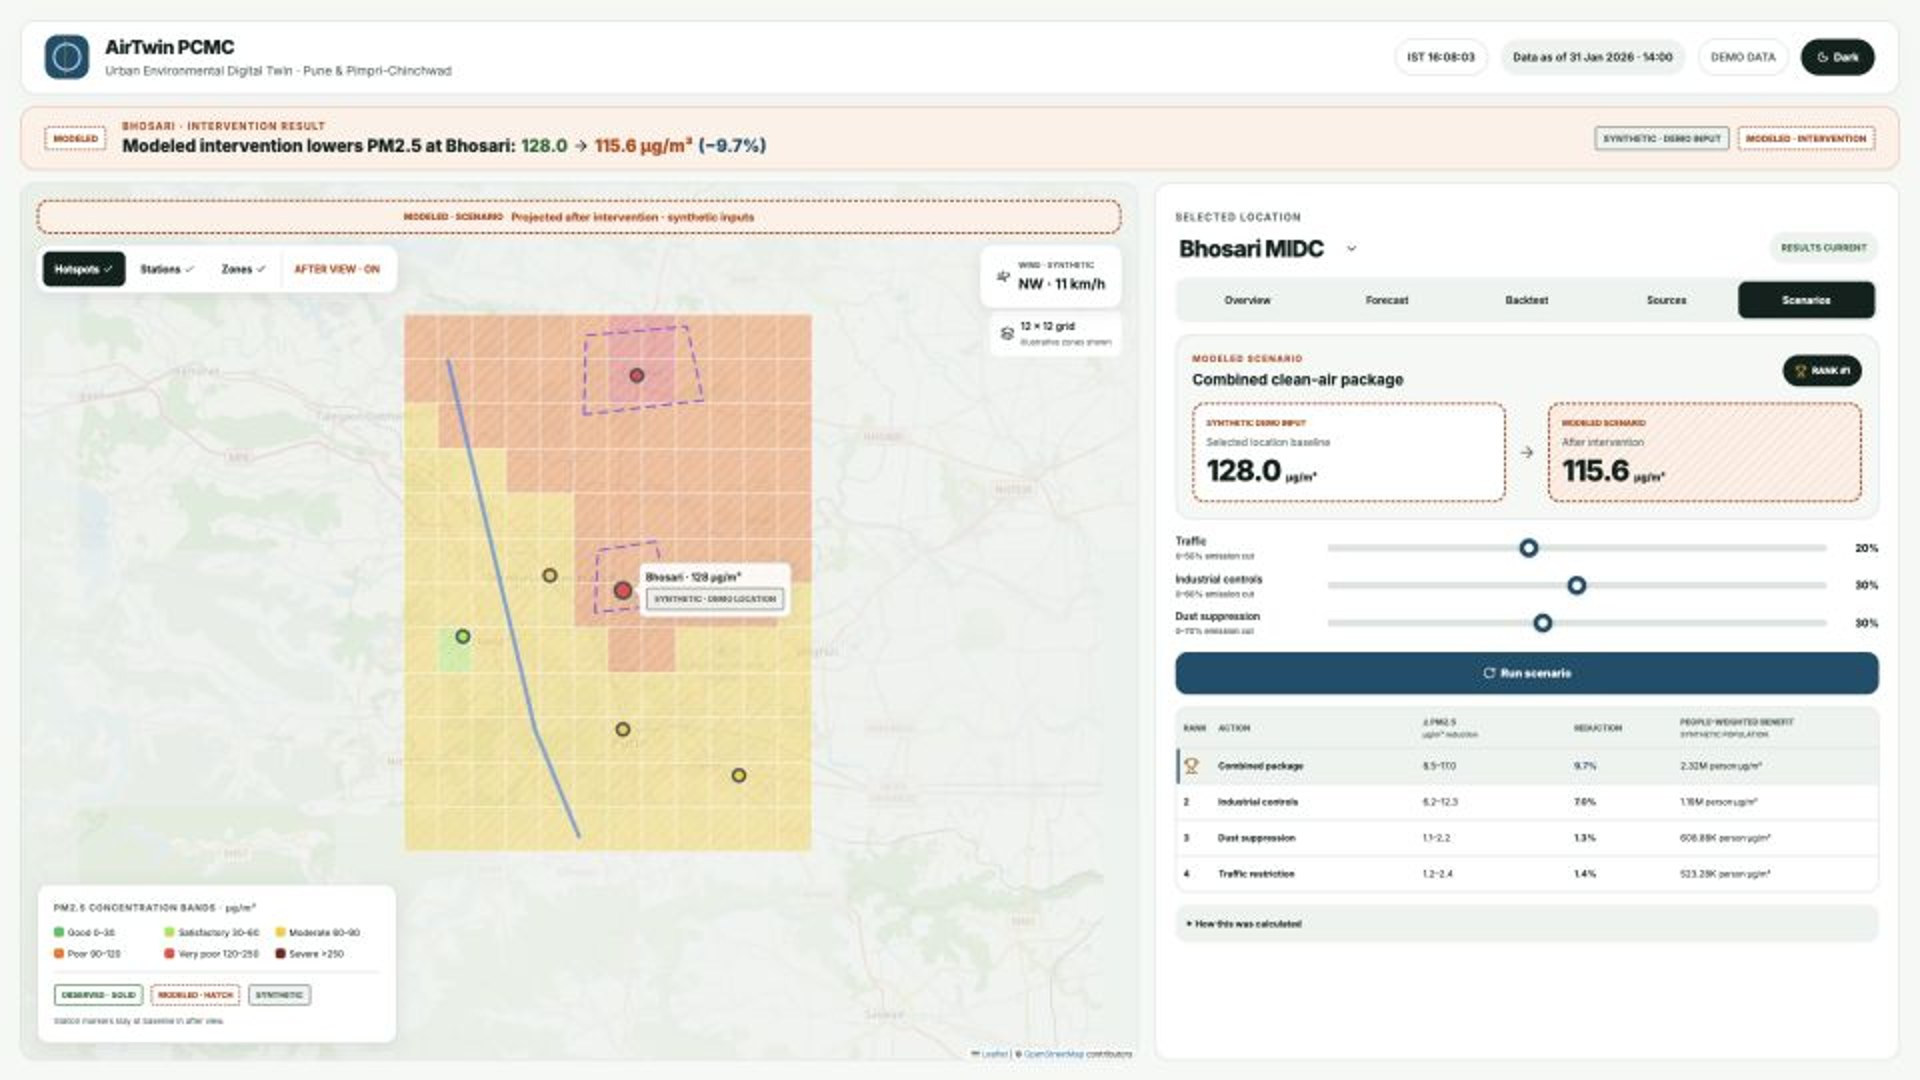
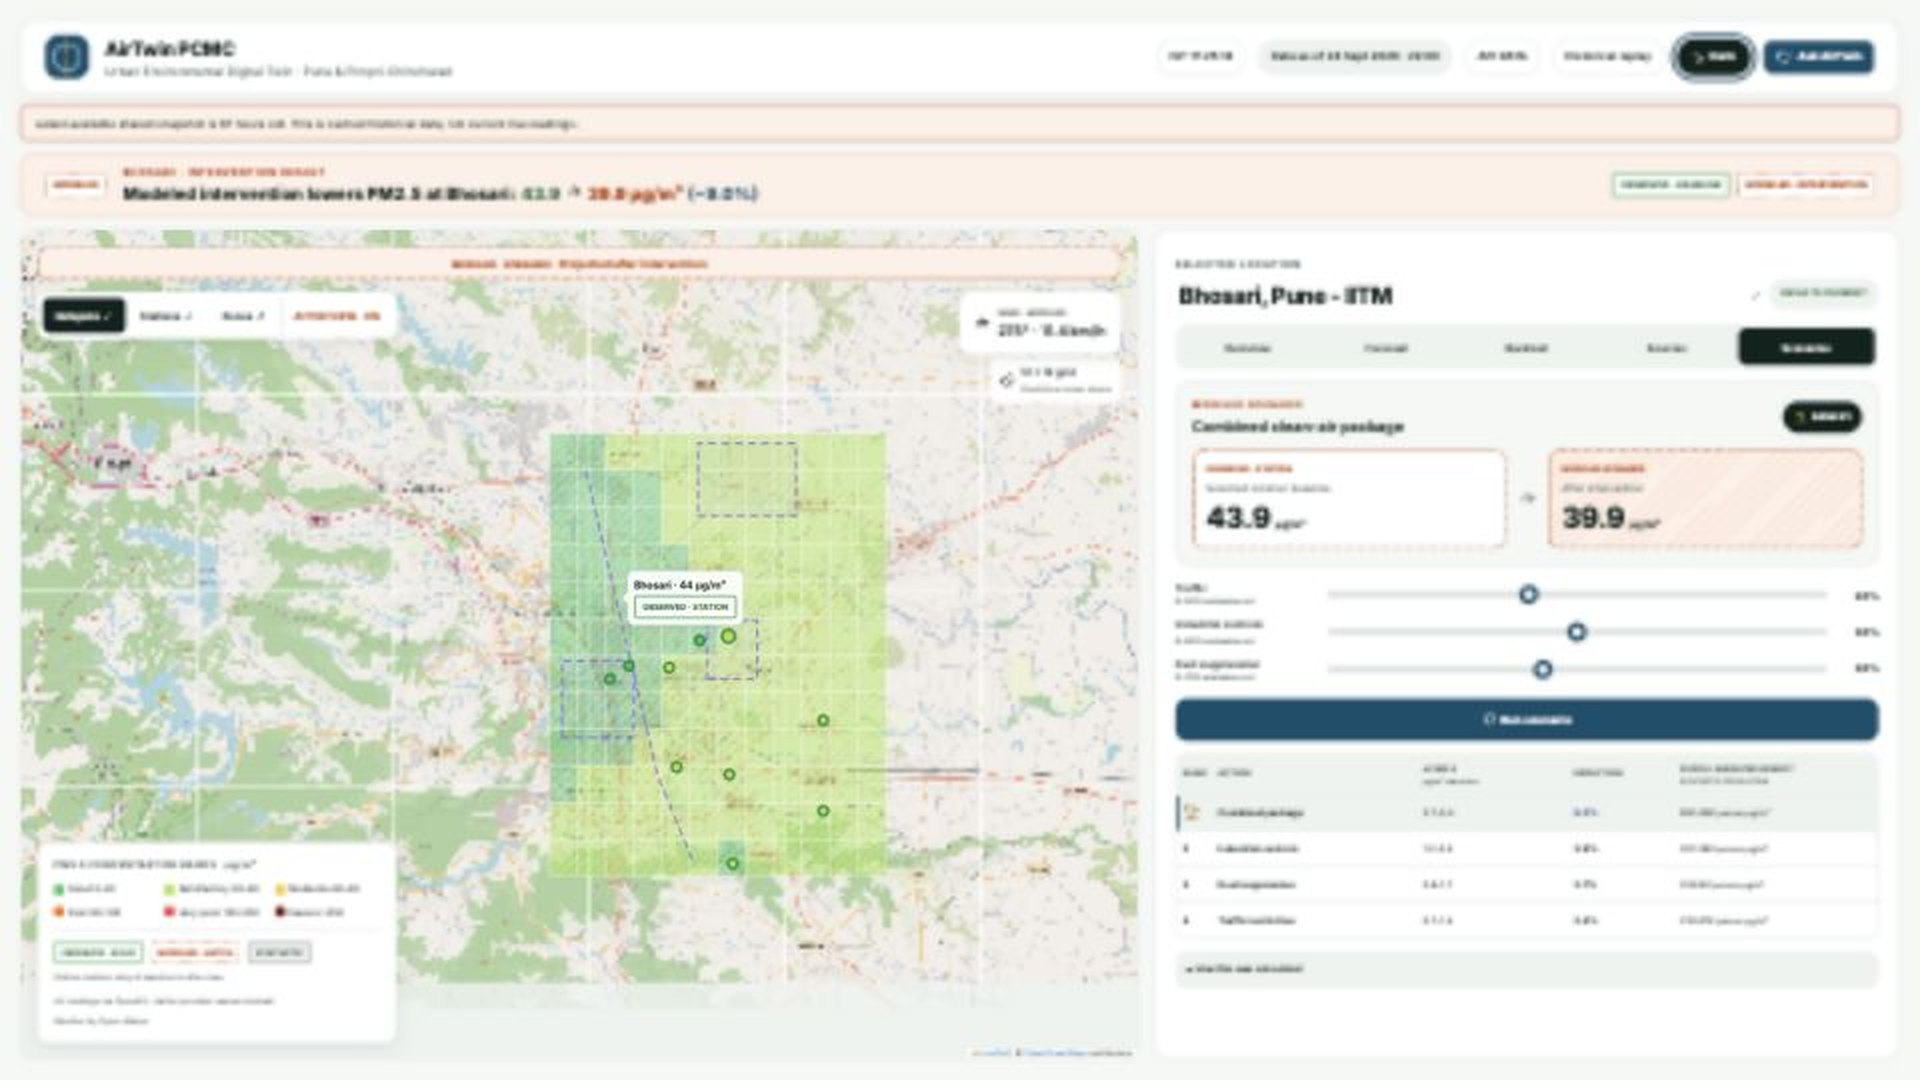
docs(qa): publish connected dashboard captures and verification evidence

diff --git a/frontend/design-qa.md b/frontend/design-qa.md
@@ -1,59 +1,50 @@
-# Screenshot implementation QA
+# Connected dashboard verification
 
-Final result: passed.
+Final result: passed for the local hackathon prototype on 27 September 2026.
+Reference: user screenshot and existing Kombai layout. URL: http://127.0.0.1:5173/.
 
-Reference: user screenshot and Kombai canvas node `node_3810ffa21f89`.
-Implementation: http://127.0.0.1:5173/
+## Visual comparison
 
-## Visual verification
+Preserved the reference header, peach intervention banner, 60/40 map and insights
+layout, tabs, hatch cards, blue action, three sliders, ranked table and assumptions.
+Reviewed the desktop capture against the reference and inspected the scenario panel.
+Intentional differences: real provider names/readings, one tooltip, data-age warning,
+compact replay/chat controls and numerically consistent backend scenario results.
+The attached reference is not redistributed.
 
-Compared the reference and implementation side by side at 1920×1080 and inspected
-an enlarged scenario-panel crop. Preserved the header, peach result banner,
-60/40 map-and-insights arrangement, tab strip, hatched result cards, blue action,
-three sliders, ranked table, and assumptions disclosure.
+Evidence: ../docs/screenshots/dashboard-desktop.jpg and dashboard-laptop.jpg.
+These show OBSERVED station baselines, MODELED grid/scenarios and SYNTHETIC population.
+The capture service draws at half scale inside its canvas. Evidence crops blank
+canvas and normalizes display scale; no numbers, labels or UI elements are edited.
 
-Intentional differences: one selected map tooltip; synthetic provenance instead of
-fabricated observations; mathematically consistent calculated values; approximate
-illustrative zones; live OpenStreetMap tiles. Exact map tile appearance varies by zoom.
+## Browser evidence
 
-Published evidence: `../docs/screenshots/dashboard-desktop.jpg` and
-`../docs/screenshots/dashboard-laptop.jpg`. The reference/composite and enlarged
-panel were inspected locally; user reference captures are not redistributed.
-Browser full-page captures rendered at half scale inside the capture canvas;
-evidence images crop that blank canvas and normalize scale. DOM measurements
-verified actual viewport dimensions and absence of horizontal overflow.
+- 1920×1080: document 1920×1080; no horizontal overflow; one map tooltip.
+- 1366×768: document 1366×768; all four ranking rows visible; chat control moved
+  into the header so it cannot cover the result table.
+- 390px mobile: document width 390px; stacked panels; provider timestamp retained.
+- All five tabs work. Forecast 24/72h selection returns backend projections.
+- Backtest displays Bhosari's computed holdout metrics and quantile coverage.
+- Sources display four proxy categories, separate from TreeSHAP in Forecast.
+- Three zero-cut sliders plus Run scenario produce identical before/after values,
+  zero ranges and zero exposure benefits for all actions.
+- Keyboard grid selection works; 154 accessible map targets (144 cells + 10 stations).
+- Historical replay loads the held-out 7 January 2026 snapshot with a dated banner;
+  exiting restores the current cached dataset. Replay forecasts use pre-holdout models.
+- Ask AirTwin returns a tagged template grounded in actual API outputs without an
+  LLM key; Escape closes it. Optional external-provider behavior is not live-tested.
+- Light/dark themes work. Final browser console contains no warnings or errors.
 
-## Browser checks
+## Automated evidence and limits
 
-- 1920×1080: full dashboard fits; no horizontal overflow.
-- 1366×768: all scenario ranking rows and disclosure header visible; panel scrolls
-  when expanded. Page dimensions remain 1366×768.
-- 390px mobile: stacked layout and map controls fit without horizontal overflow.
-- Light and dark themes, all five tabs, forecast horizons, assumptions disclosure,
-  location selection, keyboard station/cell activation, layer toggles, and before/
-  after map views tested.
-- Slider changes mark results outdated. Running a scenario updates the banner,
-  cards, ranking and map from one response. Zero cuts produce zero reductions.
-- One map tooltip at a time. Final clean browser console: no errors or warnings.
+20 backend tests, 11 frontend tests and 4 hosting tests pass. Production TypeScript
+build and ESLint pass. Tests cover leakage, purged splits, SHAP reconstruction,
+IDW, normalized shares, additive scenarios, contracts, replay and invalid LLM numbers.
+Third-party Python/Node deprecation warnings do not represent failed checks.
 
-## Implementation and honesty checks
-
-- Build and strict TypeScript: passed. ESLint: passed. Vitest: 11 tests passed.
-- Tests cover zero cuts, additive combined benefit, normalized shares, background
-  clamping, IDW at locations, computed demo metrics, and API fallback provenance.
-- Observations are never synthesized. Demo locations/population are marked
-  SYNTHETIC, derived outputs MODELED, with assumptions and DEMO DATA status.
-- Demo forecast uncertainty is explicitly uncalibrated. No real model accuracy is
-  claimed. Backend and trained forecasting models remain pending.
-
-## Antislop implementation gate
-
-Applied during implementation as requested. Screenshot tokens and layout are
-preserved; semantic colors, badges and hatch patterns encode data meaning.
-Controls have labels, keyboard focus and state feedback. Text colors have separate
-dark-theme tokens; outdated state uses a border instead of lowered text opacity.
-Motion is limited to functional state feedback. Local fonts, split map/chart bundles,
-loading/retry states and responsive stacking support predictable rendering.
-
-No unresolved P0–P2 defects found in the tested frontend flows. API success with a
-real backend remains unverified because no backend server exists yet.
+The latest observed snapshot is 24 September 2026 at 22:00 IST. A visible warning
+states that it is cached historical data. Pooled model skill trails persistence;
+the generated model card reports the measured loss. No causal policy effect,
+real population count, operational forecast skill or strong LLM semantic guarantee
+is claimed. This report is scoped to the tested local prototype, not accessibility
+certification or production readiness.

diff --git a/docs/screenshots/README.md b/docs/screenshots/README.md
@@ -1,14 +1,17 @@
-# Dashboard evidence
+# Connected dashboard evidence
 
-These are captures of the implemented frontend, not rendered design mockups.
+Actual local application captures from 27 September 2026:
 
-- dashboard-desktop.jpg: 1920×1080, default synthetic Bhosari scenario.
-- dashboard-laptop.jpg: 1366×768 compact view with all ranking rows visible.
+- dashboard-desktop.jpg: 1920×1080, Bhosari observed baseline and modeled scenario.
+- dashboard-laptop.jpg: 1366×768, same response in the compact layout.
 
-Source: local running AirTwin frontend. The browser capture included a blank
-half-scale canvas; cropping and resizing normalize the display scale. No data,
-labels or UI content were edited. JPEG compression keeps repository assets small.
+The data timestamp is 24 September 2026, 22:00 IST; the stale-data warning is visible.
+Station readings are OBSERVED, interpolation/interventions MODELED, and population
+weights SYNTHETIC. These are not measured policy outcomes or current live readings.
 
-Readings/population are synthetic and interventions modeled. Preserve these labels
-when reusing screenshots. Basemap: © OpenStreetMap contributors, ODbL; see
-https://www.openstreetmap.org/copyright. Tiles are visual context, not air observations.
+The browser capture draws at half scale within a larger canvas. Cropping blank
+canvas and resizing normalize the display scale. No values, labels or UI content
+were edited. JPEG compression keeps assets small.
+
+Basemap © OpenStreetMap contributors, ODbL: https://www.openstreetmap.org/copyright.
+Air readings via OpenAQ with provider names retained; weather via Open-Meteo.
